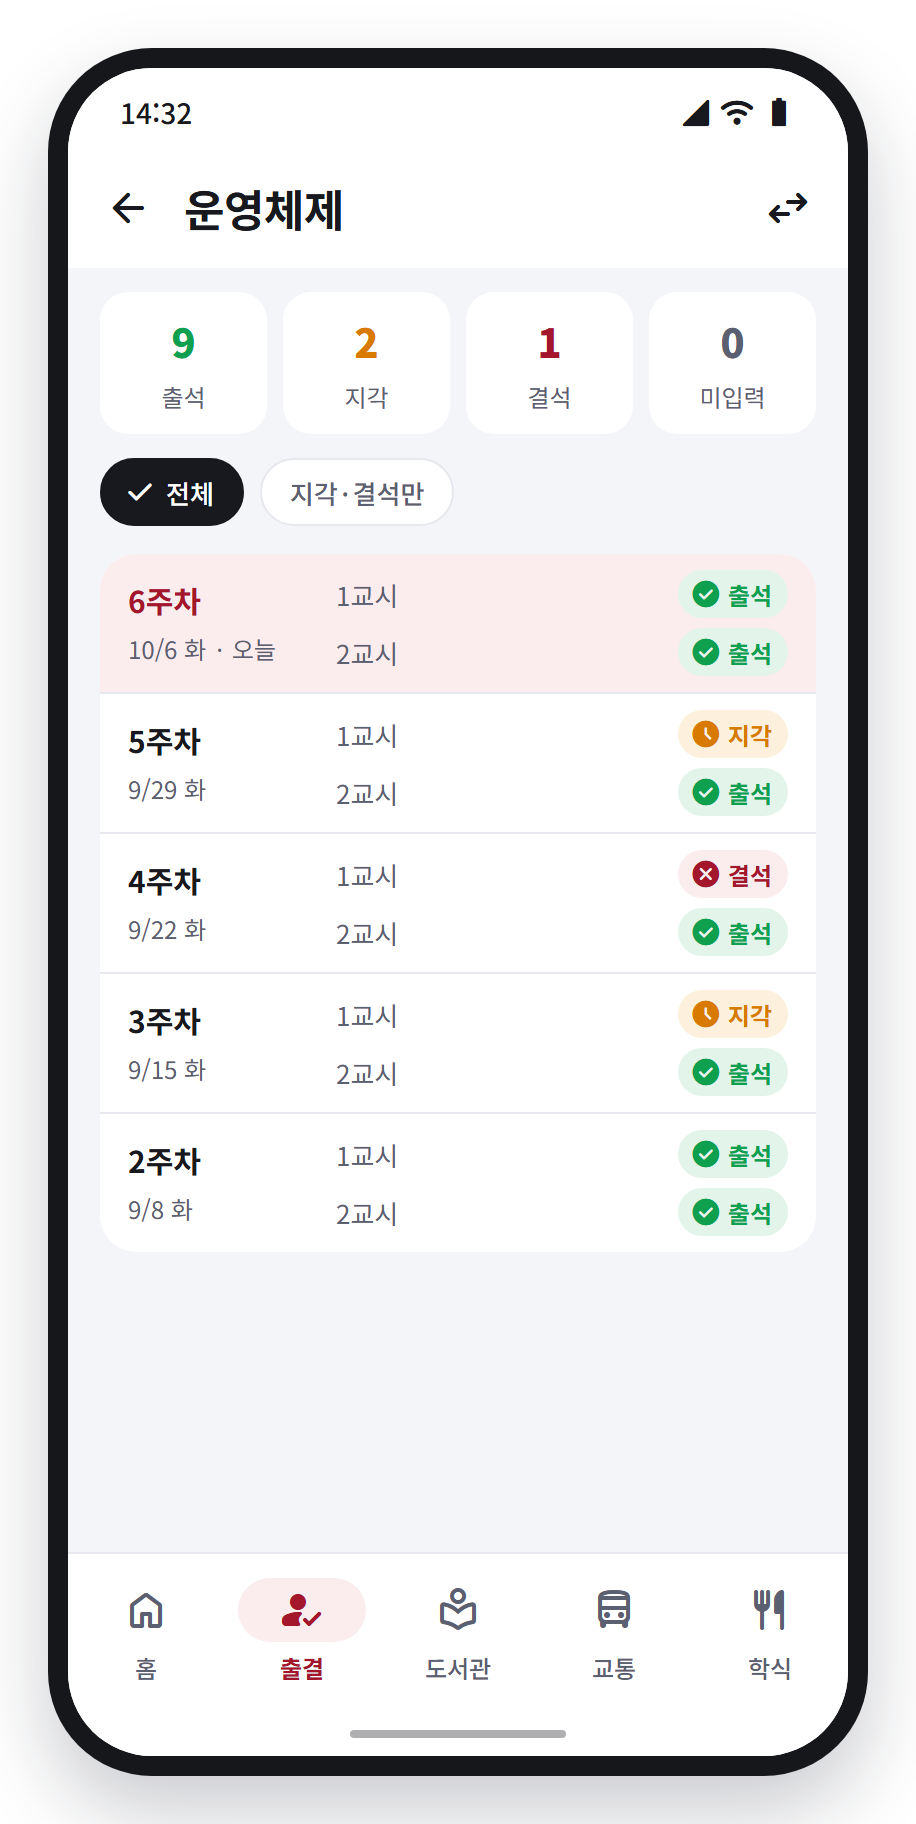
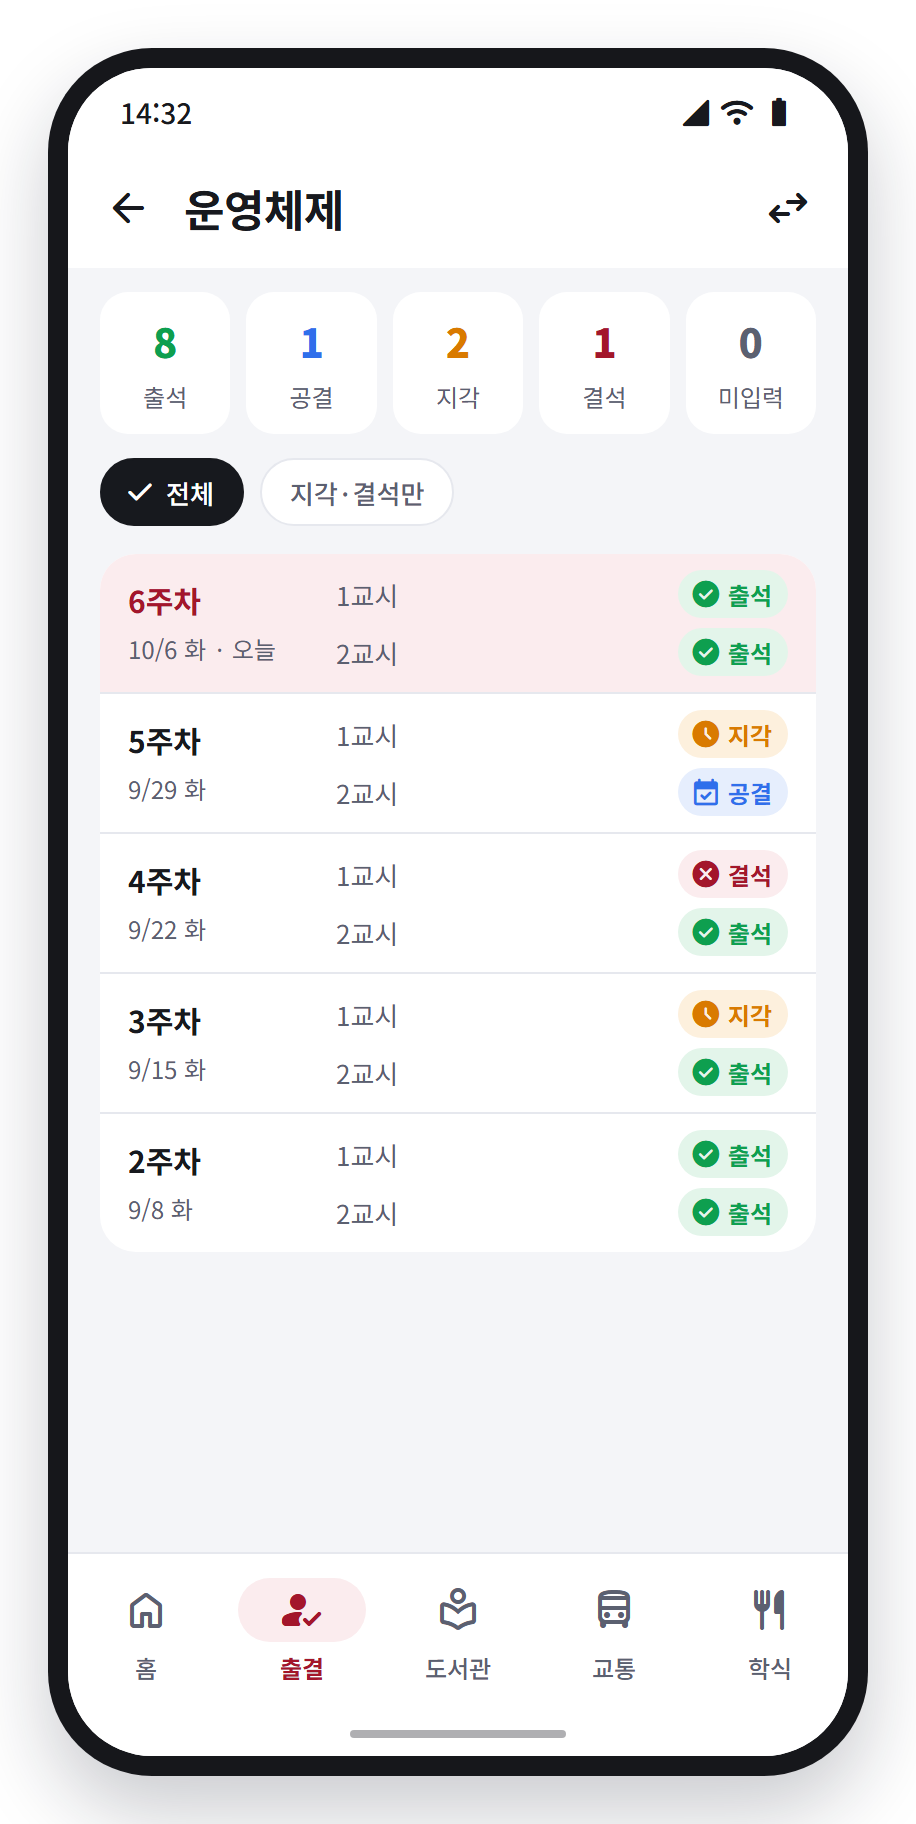
목업을 실제 데이터에 맞추기: 공결 추가, 근거 없는 문구 빼기
학교 전자출결 시스템의 데이터(2026-10-27 확인)에 맞춰 전자출결 목업에 공결 상태를 넣고,
데이터에 없는 지각 처리 규칙 경고와 시스템에 없는 이의 신청 안내를 뺐다. 메인 목업의
학과·재학 표시는 출처를 확인하지 못해 "스마트모바일에 로그인됨"으로 바꿨다.

diff --git a/mockups/attendance.html b/mockups/attendance.html
@@ -93,15 +93,16 @@
   .st.late { background: var(--amber-soft); color: var(--amber); }
   .st.abs { background: var(--primary-soft); color: var(--primary); }
   .st.none { background: var(--gray-soft); color: var(--sub); }
+  .st.exc { background: #E6EEFD; color: var(--blue); }
 
   /* ① 요약 */
   .rate { display: flex; align-items: center; gap: 16px; padding: 16px 18px; }
   .ring { width: 84px; height: 84px; border-radius: 42px; flex: none; display: flex; align-items: center; justify-content: center;
-          background: conic-gradient(var(--green) 0 92%, var(--amber) 92% 95%, var(--primary) 95% 97%, var(--line) 97% 100%); }
+          background: conic-gradient(var(--green) 0 90%, var(--blue) 90% 92%, var(--amber) 92% 96%, var(--primary) 96% 98%, var(--line) 98% 100%); }
   .ring div { width: 66px; height: 66px; border-radius: 33px; background: var(--white); display: flex; flex-direction: column; align-items: center; justify-content: center; }
   .ring b { font-size: 20px; font-weight: 900; letter-spacing: -0.5px; }
   .ring span { font-size: 10px; color: var(--sub); }
-  .counts { flex: 1; display: grid; grid-template-columns: 1fr 1fr; gap: 8px 10px; }
+  .counts { flex: 1; display: grid; grid-template-columns: 1fr 1fr; gap: 6px 10px; }
   .counts div { display: flex; align-items: center; gap: 6px; font-size: 13px; color: var(--sub); }
   .counts i { width: 8px; height: 8px; border-radius: 4px; }
   .counts b { margin-left: auto; font-size: 15px; color: var(--ink); }
@@ -117,7 +118,7 @@
   .course .meta { margin-top: 2px; font-size: 12px; color: var(--sub); }
   .bar { margin-top: 10px; height: 8px; border-radius: 4px; overflow: hidden; display: flex; background: var(--line); }
   .bar i { display: block; height: 100%; }
-  .bar .g { background: var(--green); } .bar .a { background: var(--amber); } .bar .r { background: var(--primary); } .bar .n { background: #C9CDD6; }
+  .bar .g { background: var(--green); } .bar .e { background: var(--blue); } .bar .a { background: var(--amber); } .bar .r { background: var(--primary); } .bar .n { background: #C9CDD6; }
   .tally { margin-top: 8px; display: flex; gap: 12px; font-size: 12px; color: var(--sub); }
   .tally b { color: var(--ink); font-weight: 700; margin-left: 2px; }
   .tally .bad b { color: var(--primary); }
@@ -131,7 +132,7 @@
   .mini div { flex: 1; padding: 10px 0 9px; border-radius: 14px; background: var(--white); text-align: center; }
   .mini b { display: block; font-size: 20px; font-weight: 900; }
   .mini span { font-size: 12px; color: var(--sub); }
-  .mini .g b { color: var(--green); } .mini .a b { color: var(--amber); } .mini .r b { color: var(--primary); } .mini .n b { color: var(--sub); }
+  .mini .g b { color: var(--green); } .mini .e b { color: var(--blue); } .mini .a b { color: var(--amber); } .mini .r b { color: var(--primary); } .mini .n b { color: var(--sub); }
   .weeks { margin: 10px 16px 0; overflow: hidden; }
   .wk { display: flex; align-items: center; min-height: 58px; padding: 8px 14px; gap: 12px; }
   .wk + .wk { border-top: 1px solid var(--line); }
@@ -192,7 +193,8 @@
             <div class="card rate">
               <div class="ring"><div><b class="num">92%</b><span>출석률</span></div></div>
               <div class="counts">
-                <div><i style="background:var(--green)"></i>출석<b class="num">46</b></div>
+                <div><i style="background:var(--green)"></i>출석<b class="num">45</b></div>
+                <div><i style="background:var(--blue)"></i>공결<b class="num">1</b></div>
                 <div><i style="background:var(--amber)"></i>지각<b class="num">2</b></div>
                 <div><i style="background:var(--primary)"></i>결석<b class="num">1</b></div>
                 <div><i style="background:#C9CDD6"></i>미입력<b class="num">1</b></div>
@@ -200,7 +202,7 @@
             </div>
           </div>
           <div class="pad">
-            <div class="warn"><span class="ms fill">warning</span><div><b>운영체제</b> 지각 2회 · 결석 1회<br>지각 3회는 결석 1회로 처리돼요</div></div>
+            <div class="warn"><span class="ms fill">warning</span><div><b>운영체제</b>에 지각 2회 · 결석 1회가 있어요<br>과목 상세에서 날짜를 확인해 보세요</div></div>
           </div>
           <div class="sec">과목별 출결<small>5과목</small></div>
           <div class="card course">
@@ -212,8 +214,8 @@
           <div class="card course">
             <div class="top"><b>운영체제</b><span class="st late"><span class="ms fill">schedule</span>주의</span><span class="ms">chevron_right</span></div>
             <div class="meta">화 1·2교시</div>
-            <div class="bar"><i class="g" style="width:75%"></i><i class="a" style="width:17%"></i><i class="r" style="width:8%"></i></div>
-            <div class="tally"><span>출석<b class="num">9</b></span><span class="bad">지각<b class="num">2</b></span><span class="bad">결석<b class="num">1</b></span></div>
+            <div class="bar"><i class="g" style="width:67%"></i><i class="e" style="width:8%"></i><i class="a" style="width:17%"></i><i class="r" style="width:8%"></i></div>
+            <div class="tally"><span>출석<b class="num">8</b></span><span>공결<b class="num">1</b></span><span class="bad">지각<b class="num">2</b></span><span class="bad">결석<b class="num">1</b></span></div>
           </div>
           <div class="card course">
             <div class="top"><b>데이터베이스</b><span class="st ok"><span class="ms fill">check_circle</span>출석 100%</span><span class="ms">chevron_right</span></div>
@@ -231,7 +233,7 @@
         </div>
         <div class="gesture"></div>
       </div></div>
-      <p class="cap"><b>① 출결 요약</b><br><span>브라우저로 나가지 않고 앱 안 출결 탭에서 열립니다. 이번 학기 출석률과 과목별 출석·지각·결석 횟수를 한눈에 보여주고, 주의할 과목을 먼저 알려줍니다.</span></p>
+      <p class="cap"><b>① 출결 요약</b><br><span>브라우저로 나가지 않고 앱 안 출결 탭에서 열립니다. 이번 학기 출석률과 과목별 출석·공결·지각·결석 횟수를 한눈에 보여주고, 지각·결석이 있는 과목을 먼저 알려줍니다.</span></p>
     </div>
 
     <!-- ② 과목 상세 -->
@@ -241,7 +243,8 @@
         <div class="appbar back"><div class="icon-btn"><span class="ms">arrow_back</span></div><h2>운영체제</h2><div class="icon-btn"><span class="ms">swap_horiz</span></div></div>
         <div class="content">
           <div class="mini">
-            <div class="g"><b class="num">9</b><span>출석</span></div>
+            <div class="g"><b class="num">8</b><span>출석</span></div>
+            <div class="e"><b class="num">1</b><span>공결</span></div>
             <div class="a"><b class="num">2</b><span>지각</span></div>
             <div class="r"><b class="num">1</b><span>결석</span></div>
             <div class="n"><b class="num">0</b><span>미입력</span></div>
@@ -262,7 +265,7 @@
               <div class="w"><b>5주차</b><span class="num">9/29 화</span></div>
               <div class="ss">
                 <div class="s"><span>1교시</span><span class="st late"><span class="ms fill">schedule</span>지각</span></div>
-                <div class="s"><span>2교시</span><span class="st ok"><span class="ms fill">check_circle</span>출석</span></div>
+                <div class="s"><span>2교시</span><span class="st exc"><span class="ms fill">event_available</span>공결</span></div>
               </div>
             </div>
             <div class="wk">
@@ -297,7 +300,7 @@
         </div>
         <div class="gesture"></div>
       </div></div>
-      <p class="cap"><b>② 과목 상세</b><br><span>숫자 대신 "6주차 · 10/6 화"처럼 주차와 날짜를 보여주고, 출석·지각·결석·미입력을 색과 아이콘으로 구분합니다. 지각·결석만 골라 볼 수 있습니다.</span></p>
+      <p class="cap"><b>② 과목 상세</b><br><span>숫자 대신 "6주차 · 10/6 화"처럼 주차와 날짜를 보여주고, 출석·공결·지각·결석·미입력을 색과 아이콘으로 구분합니다. 지각·결석만 골라 볼 수 있습니다.</span></p>
     </div>
 
     <!-- ③ 오늘 수업 -->
@@ -315,7 +318,7 @@
             <div class="cls now">
               <span class="now-tag">수업 중</span>
               <div class="time"><b class="num">13:00</b><span>5·6교시</span></div>
-              <div class="body"><b>모바일프로그래밍</b><div class="where"><span class="ms">location_on</span>미래융합정보관 205</div><span class="st none"><span class="ms">hourglass_top</span>미입력 · 수업 뒤 반영</span></div>
+              <div class="body"><b>모바일프로그래밍</b><div class="where"><span class="ms">location_on</span>미래융합정보관 205</div><span class="st none"><span class="ms">hourglass_top</span>미입력</span></div>
             </div>
             <div class="cls">
               <div class="time"><b class="num">16:00</b><span>8·9교시</span></div>
@@ -325,11 +328,12 @@
           <div class="sec" style="padding-top:18px">상태 표시</div>
           <div class="legend">
             <span class="st ok"><span class="ms fill">check_circle</span>출석</span>
+            <span class="st exc"><span class="ms fill">event_available</span>공결</span>
             <span class="st late"><span class="ms fill">schedule</span>지각</span>
             <span class="st abs"><span class="ms fill">cancel</span>결석</span>
             <span class="st none"><span class="ms">hourglass_top</span>미입력</span>
           </div>
-          <div class="help"><span class="ms fill">info</span><div>출결이 잘못 기록됐나요? <b>과목 상세에서 이의 신청</b>을 할 수 있어요</div></div>
+          <div class="help"><span class="ms fill">info</span><div>출결은 <b>학교 전자출결 시스템의 기록</b>을 그대로 보여줘요</div></div>
         </div>
         <div class="nav">
           <div><i><span class="ms">home</span></i>홈</div>
@@ -345,7 +349,7 @@
 
   </div>
 
-  <p class="foot">해결하는 개선점(통합본): 4-9 앱 안에서 표시 · 4-10 상태별 색과 아이콘 · 4-11 과목별 출석·결석 횟수 요약 · 4-12 "1주차" 표기 · 4-13 앱 전체 색 통일 · 8-7 과목별 출석 요약.<br>과목·시간·강의실·출결 기록은 시연용 예시입니다. 지각 처리 규칙과 이의 신청은 학교 출결 시스템의 실제 기능에 맞춰 바꿔야 합니다.</p>
+  <p class="foot">해결하는 개선점(통합본): 4-9 앱 안에서 표시 · 4-10 상태별 색과 아이콘 · 4-11 과목별 출석·결석 횟수 요약 · 4-12 "1주차" 표기 · 4-13 앱 전체 색 통일 · 8-7 과목별 출석 요약.<br>과목·시간·강의실·출결 기록은 시연용 예시입니다. 화면에 쓰는 항목(과목, 주차, 날짜, 교시, 시각, 강의실, 출결 상태)은 학교 전자출결 시스템이 주는 데이터에 맞췄습니다(2026-10-27 확인).</p>
 </div>
 <script>
   const s = new URLSearchParams(location.search).get('s');

diff --git a/mockups/main.html b/mockups/main.html
@@ -185,7 +185,7 @@
           <div class="pad">
             <div class="hello">
               <div class="avatar">김</div>
-              <div class="who"><b>김교통 님</b><span>컴퓨터공학과 · 재학</span></div>
+              <div class="who"><b>김교통 님</b><span>스마트모바일에 로그인됨</span></div>
               <div class="btn"><span class="ms">badge</span>학생증</div>
             </div>
           </div>
@@ -355,7 +355,7 @@
 
   </div>
 
-  <p class="foot">해결하는 개선점(통합본): 2-2 로그인 전후 아이콘 구성 고정 · 2-3 자주 쓰는 기능 앞쪽 고정 · 2-4 SNS를 메뉴로 · 2-8 로그인 표시 · 2-9 헤더에 검색·알림 · 2-12 아이콘 이름 한 줄 · 2-13 공지 터치 영역 · 2-14 말머리 제거 · 3-3·3-4 로그아웃 위치 · 3-5~3-12 메뉴 구조 · 4-25 공지 탭 순서 · 8-6 메인 요약.<br>이름·학과·공지 제목은 시연용 예시입니다. 학식·버스 숫자는 교통·학식 목업과 같은 시각 기준입니다.</p>
+  <p class="foot">해결하는 개선점(통합본): 2-2 로그인 전후 아이콘 구성 고정 · 2-3 자주 쓰는 기능 앞쪽 고정 · 2-4 SNS를 메뉴로 · 2-8 로그인 표시 · 2-9 헤더에 검색·알림 · 2-12 아이콘 이름 한 줄 · 2-13 공지 터치 영역 · 2-14 말머리 제거 · 3-3·3-4 로그아웃 위치 · 3-5~3-12 메뉴 구조 · 4-25 공지 탭 순서 · 8-6 메인 요약.<br>이름·공지 제목은 시연용 예시입니다. 학식·버스 숫자는 교통·학식 목업과 같은 시각 기준입니다.</p>
 </div>
 <script>
   const s = new URLSearchParams(location.search).get('s');
